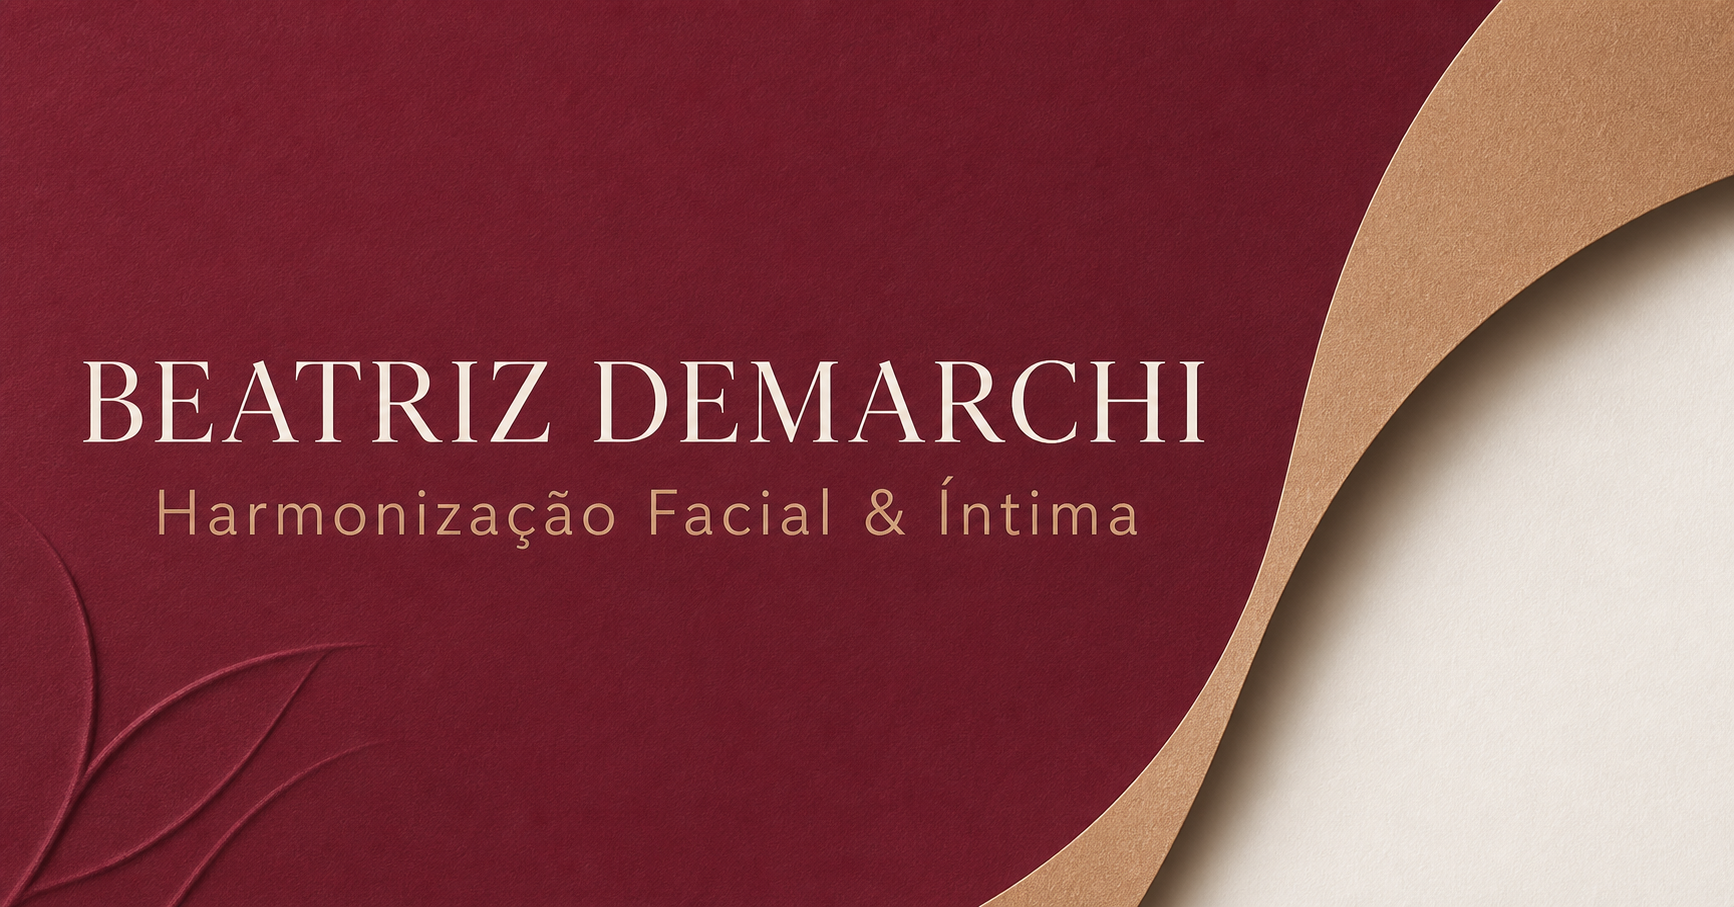
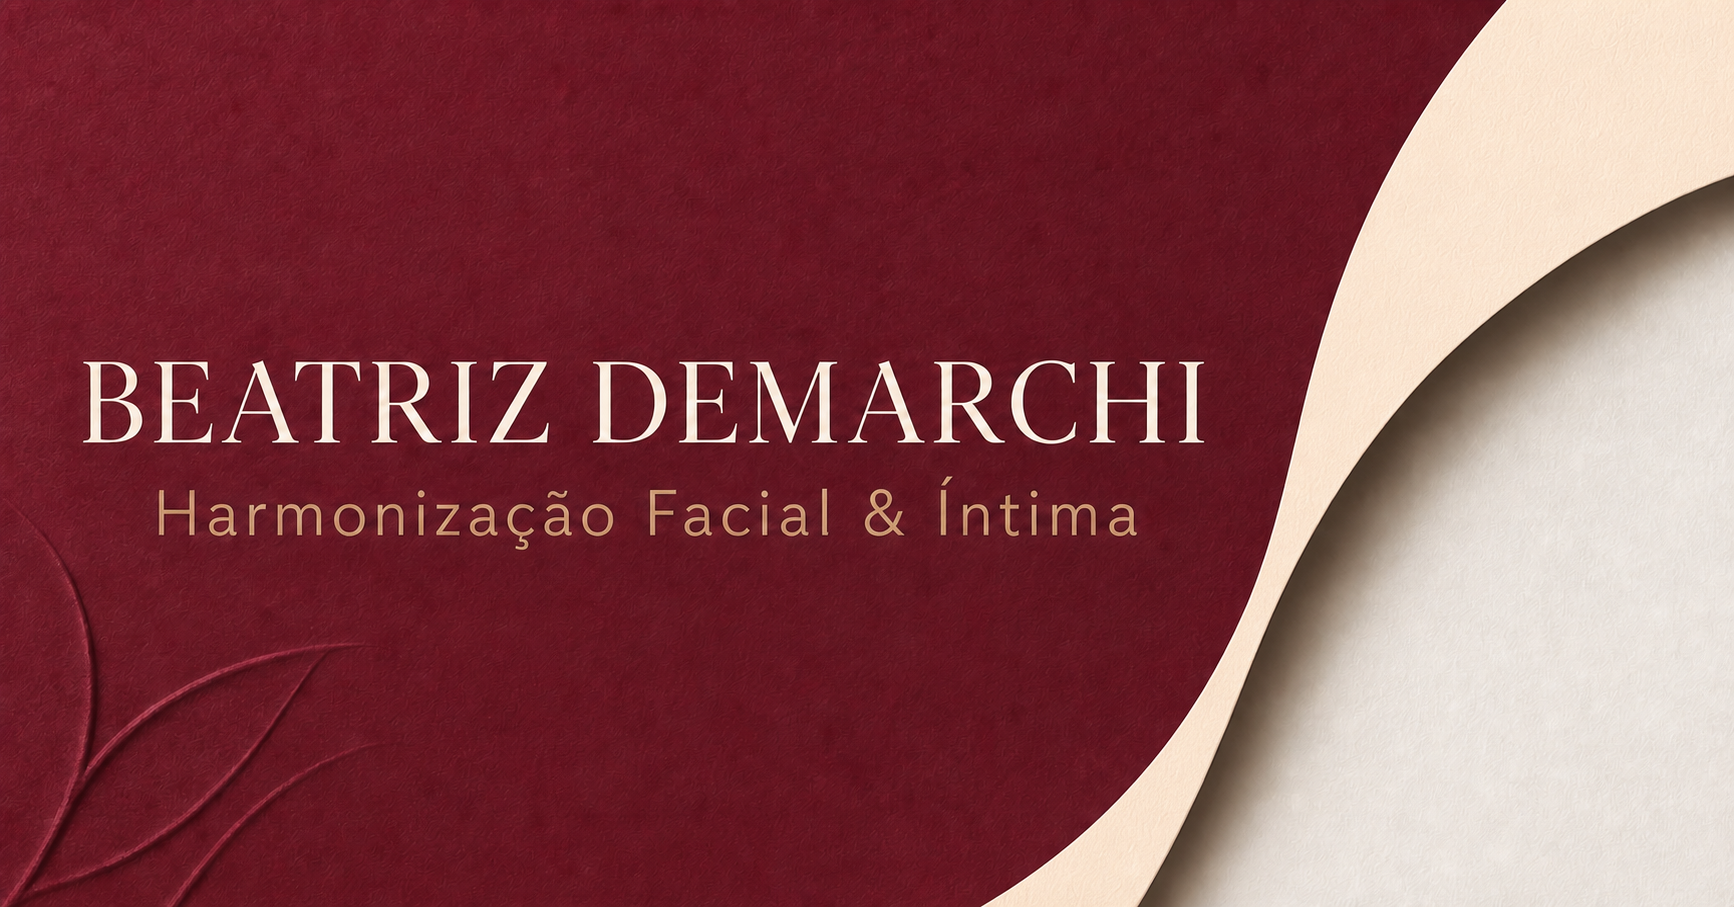
Use Champagne brand palette

diff --git a/app/globals.css b/app/globals.css
@@ -4,8 +4,8 @@
   --cranberry: #8c3a4f;
   --cranberry-deep: #581f2e;
   --cranberry-dark: #34121c;
-  --sand: #b38f6f;
-  --sand-soft: #d6c2ae;
+  --sand: #f5e4d1;
+  --sand-soft: #f5e4d1;
   --pearl: #f2f1ed;
   --paper: #faf9f6;
   --ink: #2c2023;
